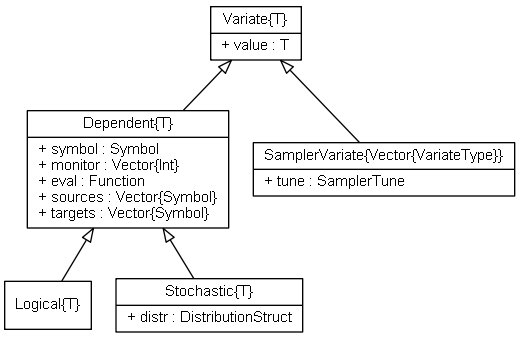
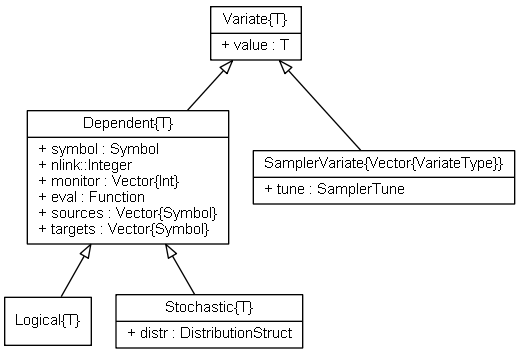
Document nlink fields in Dependent types.

diff --git a/doc/mcmc/dependent.rst b/doc/mcmc/dependent.rst
@@ -19,6 +19,7 @@ Fields
 
 * ``value::T`` : a scalar or array of ``VariateType`` values that represent samples from a target distribution.
 * ``symbol::Symbol`` : an identifying symbol for the node.
+* ``nlink::Integer`` : number of elements returned by the ``link`` method defined for the type.  Generally, this will be the number of unique elements in the node.  In most cases, ``nlink`` will be equal to ``length(value)``.  However, for some structures, like stochastic covariance matrices, ``nlink`` may be smaller.
 * ``monitor::Vector{Int}`` : indices identifying elements of the ``value`` field to include in monitored MCMC sampler output.
 * ``eval::Function`` : a function for updating the state of the node.
 * ``sources::Vector{Symbol}`` : symbols of other nodes upon whom the values of this one depends.
@@ -114,6 +115,7 @@ Fields
 
 * ``value::T`` : a scalar or array of ``VariateType`` values that represent samples from a target distribution.
 * ``symbol::Symbol`` : an identifying symbol for the node.
+* ``nlink::Integer`` : number of elements returned by the ``link`` method defined for the type.
 * ``monitor::Vector{Int}`` : indices identifying elements of the ``value`` field to include in monitored MCMC sampler output.
 * ``eval::Function`` : a function for updating values stored in ``value``.
 * ``sources::Vector{Symbol}`` : symbols of other nodes upon whom the values of this one depends.
@@ -196,6 +198,7 @@ Fields
 
 * ``value::T`` : a scalar or array of ``VariateType`` values that represent samples from a target distribution.
 * ``symbol::Symbol`` : an identifying symbol for the node.
+* ``nlink::Integer`` : number of elements returned by the ``link`` method defined for the type.
 * ``monitor::Vector{Int}`` : indices identifying elements of the ``value`` field to include in monitored MCMC sampler output.
 * ``eval::Function`` : a function for updating the ``distr`` field for the node.
 * ``sources::Vector{Symbol}`` : symbols of other nodes upon whom the distributional specification for this one depends.
